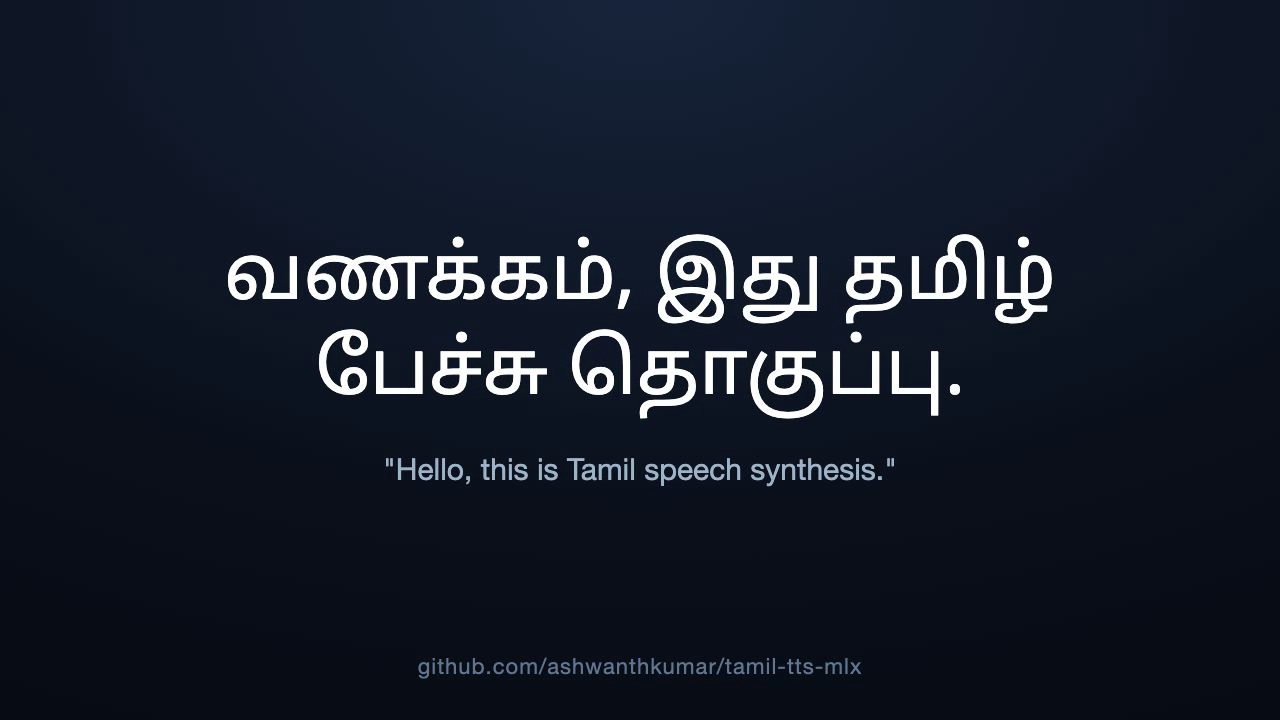
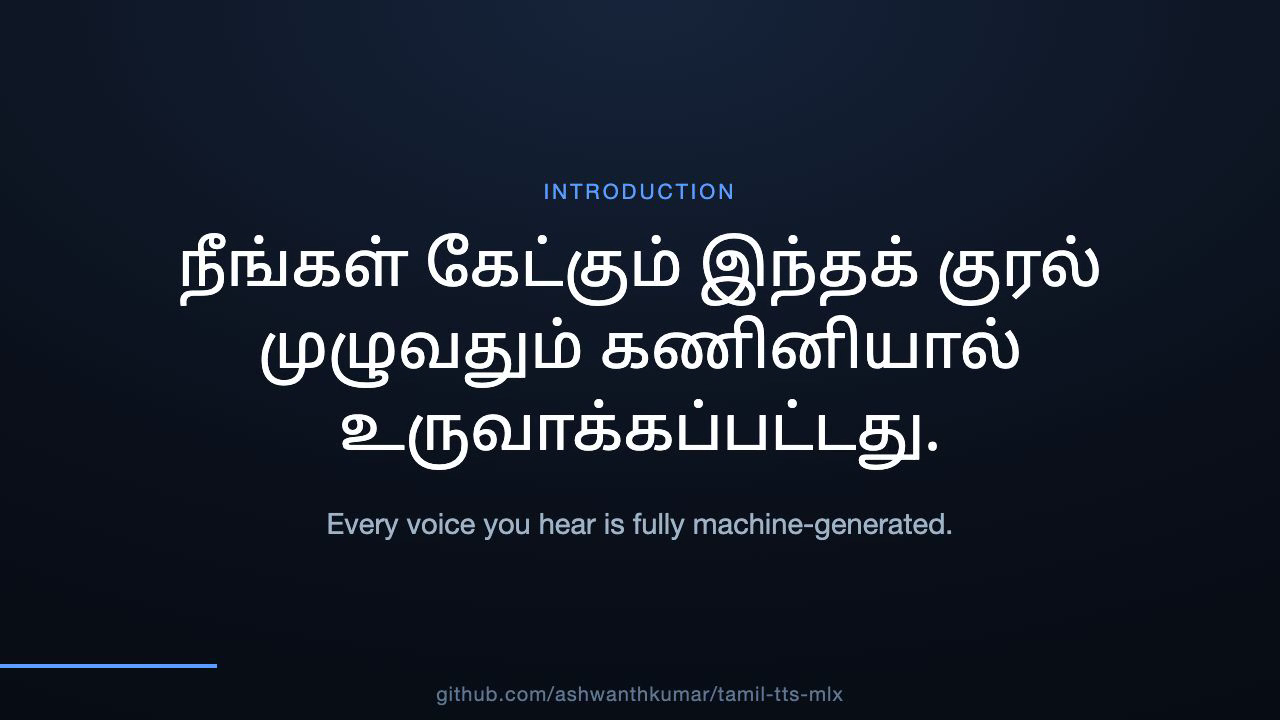
Intro video: ~53s model-narrated voice-over with English subtitles + subtle music
- Data-driven Remotion composition (src/script.json) + build_script.py (generates TTS clips,
  timeline manifest, and length-matched ambient music)
- 13 segments: spoken intro + voice samples; refreshed poster

diff --git a/videos/intro/src/Intro.tsx b/videos/intro/src/Intro.tsx
@@ -9,106 +9,82 @@ import {
   useVideoConfig,
 } from 'remotion';
 import {loadFont} from '@remotion/google-fonts/NotoSansTamil';
+import script from './script.json';
 
 const {fontFamily: tamilFont} = loadFont();
-const SANS =
-  'Inter, -apple-system, "Helvetica Neue", Arial, sans-serif';
+const SANS = 'Inter, -apple-system, "Helvetica Neue", Arial, sans-serif';
 const ACCENT = '#5b9dff';
+const N_INTRO = 3; // first N segments are the spoken introduction; the rest are voice samples
 
-const FadeUp: React.FC<{at: number; children: React.ReactNode; y?: number}> = ({
-  at,
-  children,
-  y = 24,
-}) => {
+type Seg = {file: string; tamil: string; en: string; start: number; dur: number};
+
+const FadeUp: React.FC<{at: number; y?: number; children: React.ReactNode}> = ({at, y = 22, children}) => {
   const frame = useCurrentFrame();
   const {fps} = useVideoConfig();
   const s = spring({frame: frame - at, fps, config: {damping: 200}});
+  return <div style={{opacity: s, transform: `translateY(${interpolate(s, [0, 1], [y, 0])}px)`}}>{children}</div>;
+};
+
+const Segment: React.FC<{seg: Seg; index: number}> = ({seg, index}) => {
+  const intro = index < N_INTRO;
   return (
-    <div style={{opacity: s, transform: `translateY(${interpolate(s, [0, 1], [y, 0])}px)`}}>
-      {children}
-    </div>
+    <Sequence from={seg.start} durationInFrames={seg.dur + 16}>
+      <Audio src={staticFile(seg.file)} />
+      <AbsoluteFill style={{justifyContent: 'center', alignItems: 'center', padding: 96}}>
+        <FadeUp at={3}>
+          <div style={{fontFamily: SANS, fontSize: 21, color: ACCENT, letterSpacing: 3, textTransform: 'uppercase', marginBottom: 26}}>
+            {intro ? 'Introduction' : `Voice sample ${index - N_INTRO + 1}`}
+          </div>
+        </FadeUp>
+        <FadeUp at={6}>
+          <div style={{fontFamily: tamilFont, fontSize: 62, color: 'white', textAlign: 'center', lineHeight: 1.32, maxWidth: 1060, textWrap: 'balance'}}>
+            {seg.tamil}
+          </div>
+        </FadeUp>
+        <FadeUp at={13}>
+          <div style={{fontFamily: SANS, fontSize: 29, color: '#9fb3c8', marginTop: 30, textAlign: 'center', maxWidth: 980, textWrap: 'balance'}}>
+            {seg.en}
+          </div>
+        </FadeUp>
+      </AbsoluteFill>
+    </Sequence>
   );
 };
 
-const Caption: React.FC<{tamil: string; en: string}> = ({tamil, en}) => (
-  <AbsoluteFill style={{justifyContent: 'center', alignItems: 'center', padding: 80}}>
-    <FadeUp at={4}>
-      <div
-        style={{
-          fontFamily: tamilFont,
-          fontSize: 76,
-          color: 'white',
-          textAlign: 'center',
-          lineHeight: 1.25,
-          textWrap: 'balance',
-        }}
-      >
-        {tamil}
-      </div>
-    </FadeUp>
-    <FadeUp at={12}>
-      <div style={{fontFamily: SANS, fontSize: 30, color: '#9fb3c8', marginTop: 28, textAlign: 'center'}}>
-        {en}
-      </div>
-    </FadeUp>
-  </AbsoluteFill>
-);
-
 export const Intro: React.FC = () => {
+  const frame = useCurrentFrame();
+  const progress = Math.min(frame / script.total, 1);
   return (
-    <AbsoluteFill
-      style={{
-        background: 'radial-gradient(120% 120% at 50% 0%, #16233a 0%, #0a0f1a 60%, #070a12 100%)',
-      }}
-    >
-      {/* footer / brand */}
-      <AbsoluteFill style={{justifyContent: 'flex-end', alignItems: 'center', paddingBottom: 40}}>
-        <div style={{fontFamily: SANS, fontSize: 22, color: '#5f7591', letterSpacing: 1}}>
+    <AbsoluteFill style={{background: 'radial-gradient(120% 120% at 50% 0%, #16233a 0%, #0a0f1a 60%, #070a12 100%)'}}>
+      {/* subtle background music across the whole video */}
+      <Audio src={staticFile('music.wav')} volume={2.0} />
+
+      {/* footer: progress bar + repo */}
+      <AbsoluteFill style={{justifyContent: 'flex-end'}}>
+        <div style={{height: 4, width: `${progress * 100}%`, background: ACCENT}} />
+        <div style={{textAlign: 'center', fontFamily: SANS, fontSize: 20, color: '#5f7591', padding: '14px 0', letterSpacing: 1}}>
           github.com/ashwanthkumar/tamil-tts-mlx
         </div>
       </AbsoluteFill>
 
-      {/* Scene A: title */}
-      <Sequence durationInFrames={90}>
+      {/* title card */}
+      <Sequence durationInFrames={script.intro}>
         <AbsoluteFill style={{justifyContent: 'center', alignItems: 'center'}}>
           <FadeUp at={6}>
-            <div style={{fontFamily: tamilFont, fontSize: 120, color: 'white', fontWeight: 700}}>
-              தமிழ் TTS
-            </div>
+            <div style={{fontFamily: tamilFont, fontSize: 124, color: 'white', fontWeight: 700}}>தமிழ் TTS</div>
           </FadeUp>
           <FadeUp at={18}>
-            <div style={{fontFamily: SANS, fontSize: 34, color: ACCENT, marginTop: 16}}>
-              Tamil text-to-speech
-            </div>
+            <div style={{fontFamily: SANS, fontSize: 33, color: ACCENT, marginTop: 14}}>Tamil text-to-speech · MLX → ONNX</div>
           </FadeUp>
           <FadeUp at={30}>
-            <div style={{fontFamily: SANS, fontSize: 24, color: '#9fb3c8', marginTop: 18}}>
-              trained on Apple Silicon · MLX → ONNX · runs on CPU
-            </div>
+            <div style={{fontFamily: SANS, fontSize: 22, color: '#9fb3c8', marginTop: 16}}>every voice below is generated by the model</div>
           </FadeUp>
         </AbsoluteFill>
       </Sequence>
 
-      {/* Scene B: demo 1 + audio */}
-      <Sequence from={90} durationInFrames={95}>
-        <Caption tamil="வணக்கம், இது தமிழ் பேச்சு தொகுப்பு." en={'"Hello, this is Tamil speech synthesis."'} />
-        <Audio src={staticFile('demo1.wav')} />
-      </Sequence>
-
-      {/* Scene C: demo 2 + audio */}
-      <Sequence from={190} durationInFrames={75}>
-        <Caption tamil="எப்படி இருக்கிறீர்கள்?" en={'"How are you?"'} />
-        <Audio src={staticFile('demo2.wav')} />
-      </Sequence>
-
-      {/* Scene D: outro */}
-      <Sequence from={265}>
-        <AbsoluteFill style={{justifyContent: 'center', alignItems: 'center'}}>
-          <FadeUp at={2}>
-            <div style={{fontFamily: SANS, fontSize: 40, color: 'white'}}>Listen. Generate. On-device.</div>
-          </FadeUp>
-        </AbsoluteFill>
-      </Sequence>
+      {(script.segments as Seg[]).map((seg, i) => (
+        <Segment key={i} seg={seg} index={i} />
+      ))}
     </AbsoluteFill>
   );
 };

diff --git a/videos/intro/src/Root.tsx b/videos/intro/src/Root.tsx
@@ -1,15 +1,16 @@
 import {Composition} from 'remotion';
 import {Intro} from './Intro';
+import script from './script.json';
 
 export const RemotionRoot: React.FC = () => {
   return (
     <Composition
       id="Intro"
       component={Intro}
-      durationInFrames={300}
-      fps={30}
-      width={1280}
-      height={720}
+      durationInFrames={script.total}
+      fps={script.fps}
+      width={script.width}
+      height={script.height}
     />
   );
 };

diff --git a/videos/intro/build_script.py b/videos/intro/build_script.py
@@ -1,0 +1,82 @@
+"""Build the intro video assets: generate TTS voice-over + example clips, lay out a timeline,
+write src/script.json (consumed by the Remotion composition), and synthesize length-matched music.
+
+Run from repo root:  uv run python videos/intro/build_script.py
+"""
+from __future__ import annotations
+
+import json
+import subprocess
+from pathlib import Path
+
+import soundfile as sf
+
+ROOT = Path(__file__).resolve().parents[2]
+PUB = Path(__file__).resolve().parent / "public"
+SRC = Path(__file__).resolve().parent / "src"
+FPS = 30
+MODEL = "models/tamil_ns"
+
+# (tamil spoken by the model, english subtitle). First block = intro narration; rest = examples.
+SEGMENTS = [
+    ("வணக்கம், இது ஒரு தமிழ் பேச்சு தொகுப்பு மாதிரி.", "Hello — this is a Tamil text-to-speech model."),
+    ("நீங்கள் கேட்கும் இந்தக் குரல் முழுவதும் கணினியால் உருவாக்கப்பட்டது.", "Every voice you hear is fully machine-generated."),
+    ("இது சிறிய மாதிரி, ஆனால் எந்த சாதனத்திலும் வேகமாக இயங்கும்.", "It's a small model — yet runs fast on any device."),
+    ("தமிழ் ஒரு பழமையான, அழகான மொழி.", "Tamil is an ancient, beautiful language."),
+    ("இன்று வானிலை மிகவும் அழகாக இருக்கிறது.", "The weather is lovely today."),
+    ("எனக்கு புத்தகங்கள் படிக்க மிகவும் பிடிக்கும்.", "I really enjoy reading books."),
+    ("காலை உணவு உடல் நலத்திற்கு மிகவும் முக்கியம்.", "Breakfast is very important for health."),
+    ("நீங்கள் எந்த வாக்கியத்தையும் இங்கே எழுதலாம்.", "You can type any sentence here."),
+    ("செயற்கை நுண்ணறிவு தமிழிலும் வளர்ந்து வருகிறது.", "AI is growing in Tamil too."),
+    ("மழை பெய்தால் குடை எடுத்துச் செல்லுங்கள்.", "If it rains, take an umbrella."),
+    ("இசை மனதிற்கு மகிழ்ச்சியைத் தருகிறது.", "Music brings joy to the mind."),
+    ("கல்வி வாழ்க்கையை மாற்றும் சக்தி கொண்டது.", "Education has the power to change life."),
+    ("வருகைக்கு நன்றி, மீண்டும் சந்திப்போம்.", "Thanks for watching — see you again!"),
+]
+
+INTRO = 80          # title frames before first clip
+GAP = 16            # frames between clips
+TAIL = 50           # outro frames after last clip
+
+
+def gen(text: str, out: Path):
+    subprocess.run(["uv", "run", "python", "-m", "tamiltts.mlx.onnx_infer_ns",
+                    "-m", MODEL, "--text", text, "-o", str(out)],
+                   cwd=ROOT, check=True, capture_output=True)
+
+
+def main():
+    PUB.mkdir(parents=True, exist_ok=True)
+    segs = []
+    cursor = INTRO
+    for i, (ta, en) in enumerate(SEGMENTS):
+        f = PUB / f"seg{i:02d}.wav"
+        gen(ta, f)
+        dur = sf.info(f).frames / sf.info(f).samplerate
+        df = round(dur * FPS)
+        segs.append({"file": f.name, "tamil": ta, "en": en, "start": cursor, "dur": df})
+        print(f"seg{i:02d}: {dur:.2f}s -> {df}f  start={cursor}  | {en}")
+        cursor += df + GAP
+    total = cursor + TAIL
+    script = {"fps": FPS, "width": 1280, "height": 720, "intro": INTRO, "total": total, "segments": segs}
+    (SRC / "script.json").write_text(json.dumps(script, ensure_ascii=False, indent=2), encoding="utf-8")
+    print(f"total {total} frames = {total/FPS:.1f}s -> wrote src/script.json")
+
+    # length-matched ambient music (C-major sine pad, soft, faded)
+    dur = total / FPS
+    subprocess.run([
+        "ffmpeg", "-y", "-loglevel", "error",
+        "-f", "lavfi", "-i", f"sine=frequency=130.81:duration={dur}",
+        "-f", "lavfi", "-i", f"sine=frequency=164.81:duration={dur}",
+        "-f", "lavfi", "-i", f"sine=frequency=196.00:duration={dur}",
+        "-f", "lavfi", "-i", f"sine=frequency=261.63:duration={dur}",
+        "-filter_complex",
+        f"[0][1][2][3]amix=inputs=4,tremolo=f=0.18:d=0.5,lowpass=f=1000,"
+        f"afade=t=in:ss=0:d=3,afade=t=out:st={dur-3:.2f}:d=3,volume=0.6[a]",
+        "-map", "[a]", "-ac", "1", "-ar", "22050", str(PUB / "music.wav"),
+    ], check=True)
+    print("wrote public/music.wav")
+
+
+if __name__ == "__main__":
+    main()

diff --git a/README.md b/README.md
@@ -13,7 +13,7 @@ No GPU needed at inference; runs on any platform.
 
 [![Tamil TTS demo — click to play](videos/poster.png)](videos/intro.mp4)
 
-▶ [Play intro](videos/intro.mp4) (Tamil text + synthesized voice). Samples: [demo1](samples/demo1.mp4) · [demo2](samples/demo2.mp4).
+▶ [Play the ~1 min demo](videos/intro.mp4) — model-narrated intro + voice samples, with English subtitles. Built with Remotion ([`videos/intro/`](videos/intro/)).
 
 ## Quick start
 